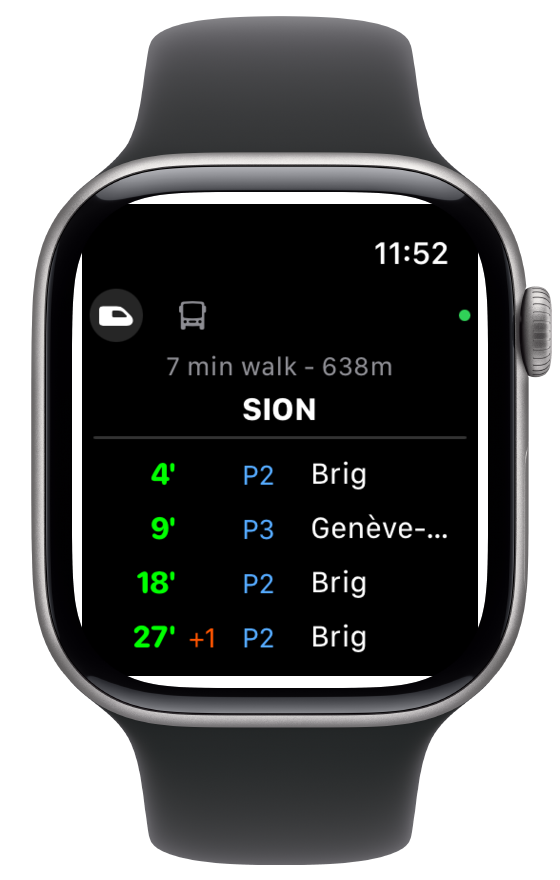
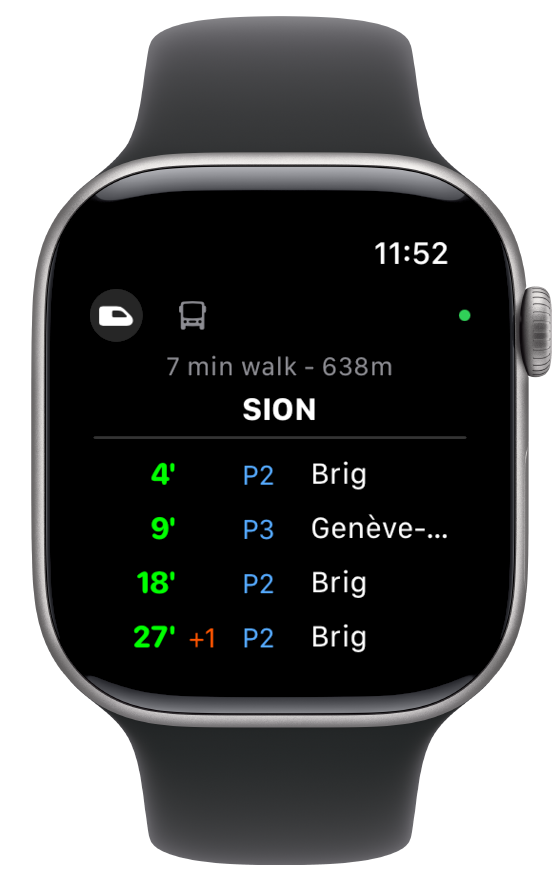
Fix apple watch screenshot transparency, add light/dark mode switcher, use newer version of xcode in build

diff --git a/docs/index.html b/docs/index.html
@@ -36,20 +36,20 @@
         --swiss-red: #ff0000;
         --border: #222222;
         --border-light: #2a2a2a;
+        --nav-bg: rgba(0, 0, 0, 0.8);
       }
 
-      @media (prefers-color-scheme: light) {
-        :root {
-          --bg: #f5f5f0;
-          --bg-elevated: #ffffff;
-          --surface: #ffffff;
-          --surface-hover: #f0f0eb;
-          --text: #111111;
-          --text-secondary: #666666;
-          --text-muted: #999999;
-          --border: #e0e0dc;
-          --border-light: #ebebeb;
-        }
+      [data-theme="light"] {
+        --bg: #f5f5f0;
+        --bg-elevated: #ffffff;
+        --surface: #ffffff;
+        --surface-hover: #f0f0eb;
+        --text: #111111;
+        --text-secondary: #666666;
+        --text-muted: #999999;
+        --border: #e0e0dc;
+        --border-light: #ebebeb;
+        --nav-bg: rgba(245, 245, 240, 0.85);
       }
 
       * {
@@ -84,17 +84,38 @@
         display: flex;
         align-items: center;
         justify-content: space-between;
-        background: rgba(0, 0, 0, 0.8);
+        background: var(--nav-bg);
         backdrop-filter: blur(20px);
         -webkit-backdrop-filter: blur(20px);
         border-bottom: 1px solid var(--border);
       }
 
-      @media (prefers-color-scheme: light) {
-        nav {
-          background: rgba(245, 245, 240, 0.85);
-        }
+      .theme-toggle {
+        background: none;
+        border: 1px solid var(--border);
+        border-radius: 6px;
+        padding: 5px 8px;
+        cursor: pointer;
+        color: var(--text-secondary);
+        display: flex;
+        align-items: center;
+        justify-content: center;
+        transition: color 0.2s, border-color 0.2s;
       }
+
+      .theme-toggle:hover {
+        color: var(--text);
+        border-color: var(--border-light);
+      }
+
+      .theme-toggle svg {
+        width: 16px;
+        height: 16px;
+      }
+
+      .theme-toggle .icon-moon { display: none; }
+      [data-theme="light"] .theme-toggle .icon-sun { display: none; }
+      [data-theme="light"] .theme-toggle .icon-moon { display: block; }
 
       .nav-logo {
         display: flex;
@@ -161,10 +182,9 @@
         top: 0;
         left: 0;
         right: 0;
-        height: 100%;
+        bottom: -120px;
         background:
-          radial-gradient(ellipse 60% 50% at 50% 0%, rgba(255, 0, 0, 0.04) 0%, transparent 70%),
-          radial-gradient(ellipse 40% 30% at 50% 100%, rgba(0, 227, 82, 0.03) 0%, transparent 70%);
+          radial-gradient(ellipse 60% 40% at 50% 20%, rgba(255, 0, 0, 0.04) 0%, transparent 70%);
         pointer-events: none;
       }
 
@@ -260,6 +280,7 @@
         width: 200px;
         height: auto;
         display: block;
+        filter: drop-shadow(0 0 1px rgba(0,0,0,0.8)) drop-shadow(0 0 2px rgba(0,0,0,0.4));
       }
 
       .watch-label {
@@ -556,6 +577,10 @@
         <a href="#features">Features</a>
         <a href="/privacy">Privacy</a>
         <a href="https://github.com/evanjt/traintime" target="_blank">GitHub</a>
+        <button class="theme-toggle" id="theme-toggle" aria-label="Toggle theme">
+          <svg class="icon-sun" viewBox="0 0 24 24" fill="none" stroke="currentColor" stroke-width="2" stroke-linecap="round"><circle cx="12" cy="12" r="5"/><path d="M12 1v2M12 21v2M4.22 4.22l1.42 1.42M18.36 18.36l1.42 1.42M1 12h2M21 12h2M4.22 19.78l1.42-1.42M18.36 5.64l1.42-1.42"/></svg>
+          <svg class="icon-moon" viewBox="0 0 24 24" fill="none" stroke="currentColor" stroke-width="2" stroke-linecap="round"><path d="M21 12.79A9 9 0 1 1 11.21 3 7 7 0 0 0 21 12.79z"/></svg>
+        </button>
       </div>
     </nav>
 
@@ -683,5 +708,23 @@
         </div>
       </div>
     </footer>
+    <script>
+      (function() {
+        const toggle = document.getElementById('theme-toggle');
+        const stored = localStorage.getItem('traintime-theme');
+        if (stored === 'light') document.documentElement.setAttribute('data-theme', 'light');
+
+        toggle.addEventListener('click', function() {
+          const isLight = document.documentElement.getAttribute('data-theme') === 'light';
+          if (isLight) {
+            document.documentElement.removeAttribute('data-theme');
+            localStorage.removeItem('traintime-theme');
+          } else {
+            document.documentElement.setAttribute('data-theme', 'light');
+            localStorage.setItem('traintime-theme', 'light');
+          }
+        });
+      })();
+    </script>
   </body>
 </html>

diff --git a/docs/privacy/index.html b/docs/privacy/index.html
@@ -27,19 +27,19 @@
         --swiss-red: #ff0000;
         --border: #222222;
         --card: #0e0e0e;
+        --nav-bg: rgba(0, 0, 0, 0.8);
       }
 
-      @media (prefers-color-scheme: light) {
-        :root {
-          --bg: #f5f5f0;
-          --bg-elevated: #ffffff;
-          --surface: #ffffff;
-          --text: #111111;
-          --text-secondary: #666666;
-          --text-muted: #999999;
-          --border: #e0e0dc;
-          --card: #ffffff;
-        }
+      [data-theme="light"] {
+        --bg: #f5f5f0;
+        --bg-elevated: #ffffff;
+        --surface: #ffffff;
+        --text: #111111;
+        --text-secondary: #666666;
+        --text-muted: #999999;
+        --border: #e0e0dc;
+        --card: #ffffff;
+        --nav-bg: rgba(245, 245, 240, 0.85);
       }
 
       * {
@@ -67,17 +67,38 @@
         display: flex;
         align-items: center;
         justify-content: space-between;
-        background: rgba(0, 0, 0, 0.8);
+        background: var(--nav-bg);
         backdrop-filter: blur(20px);
         -webkit-backdrop-filter: blur(20px);
         border-bottom: 1px solid var(--border);
       }
 
-      @media (prefers-color-scheme: light) {
-        nav {
-          background: rgba(245, 245, 240, 0.85);
-        }
+      .theme-toggle {
+        background: none;
+        border: 1px solid var(--border);
+        border-radius: 6px;
+        padding: 5px 8px;
+        cursor: pointer;
+        color: var(--text-secondary);
+        display: flex;
+        align-items: center;
+        justify-content: center;
+        transition: color 0.2s, border-color 0.2s;
       }
+
+      .theme-toggle:hover {
+        color: var(--text);
+        border-color: var(--border-light, #2a2a2a);
+      }
+
+      .theme-toggle svg {
+        width: 16px;
+        height: 16px;
+      }
+
+      .theme-toggle .icon-moon { display: none; }
+      [data-theme="light"] .theme-toggle .icon-sun { display: none; }
+      [data-theme="light"] .theme-toggle .icon-moon { display: block; }
 
       .nav-logo {
         display: flex;
@@ -272,6 +293,10 @@
       <div class="nav-links">
         <a href="/">Home</a>
         <a href="https://github.com/evanjt/traintime" target="_blank">GitHub</a>
+        <button class="theme-toggle" id="theme-toggle" aria-label="Toggle theme">
+          <svg class="icon-sun" viewBox="0 0 24 24" fill="none" stroke="currentColor" stroke-width="2" stroke-linecap="round"><circle cx="12" cy="12" r="5"/><path d="M12 1v2M12 21v2M4.22 4.22l1.42 1.42M18.36 18.36l1.42 1.42M1 12h2M21 12h2M4.22 19.78l1.42-1.42M18.36 5.64l1.42-1.42"/></svg>
+          <svg class="icon-moon" viewBox="0 0 24 24" fill="none" stroke="currentColor" stroke-width="2" stroke-linecap="round"><path d="M21 12.79A9 9 0 1 1 11.21 3 7 7 0 0 0 21 12.79z"/></svg>
+        </button>
       </div>
     </nav>
 
@@ -358,5 +383,23 @@
         </div>
       </div>
     </footer>
+    <script>
+      (function() {
+        const toggle = document.getElementById('theme-toggle');
+        const stored = localStorage.getItem('traintime-theme');
+        if (stored === 'light') document.documentElement.setAttribute('data-theme', 'light');
+
+        toggle.addEventListener('click', function() {
+          const isLight = document.documentElement.getAttribute('data-theme') === 'light';
+          if (isLight) {
+            document.documentElement.removeAttribute('data-theme');
+            localStorage.removeItem('traintime-theme');
+          } else {
+            document.documentElement.setAttribute('data-theme', 'light');
+            localStorage.setItem('traintime-theme', 'light');
+          }
+        });
+      })();
+    </script>
   </body>
 </html>
